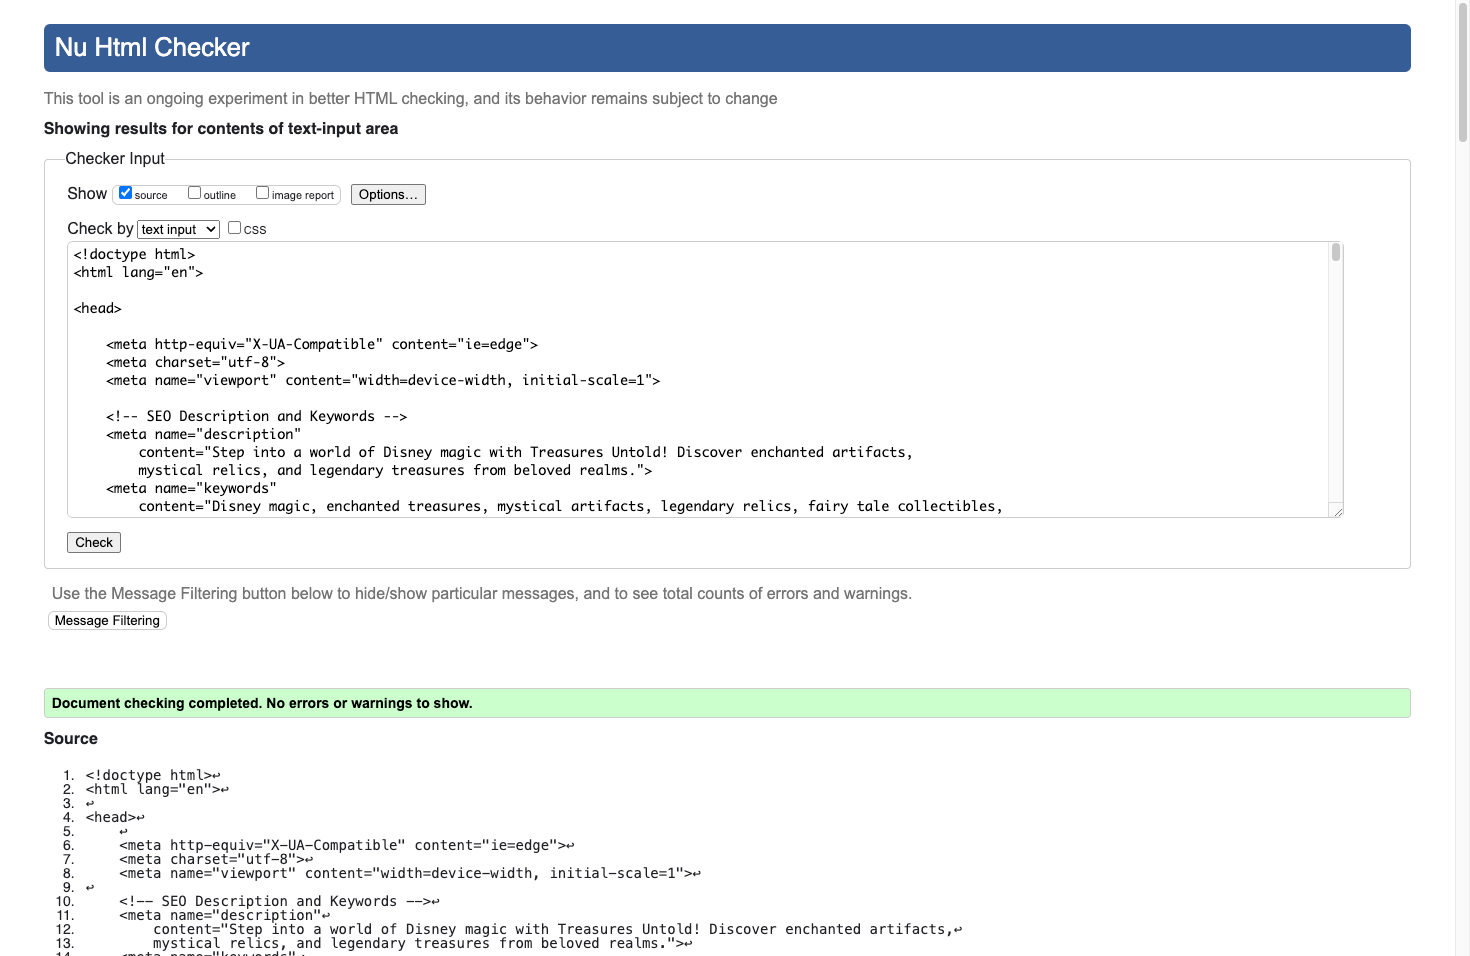
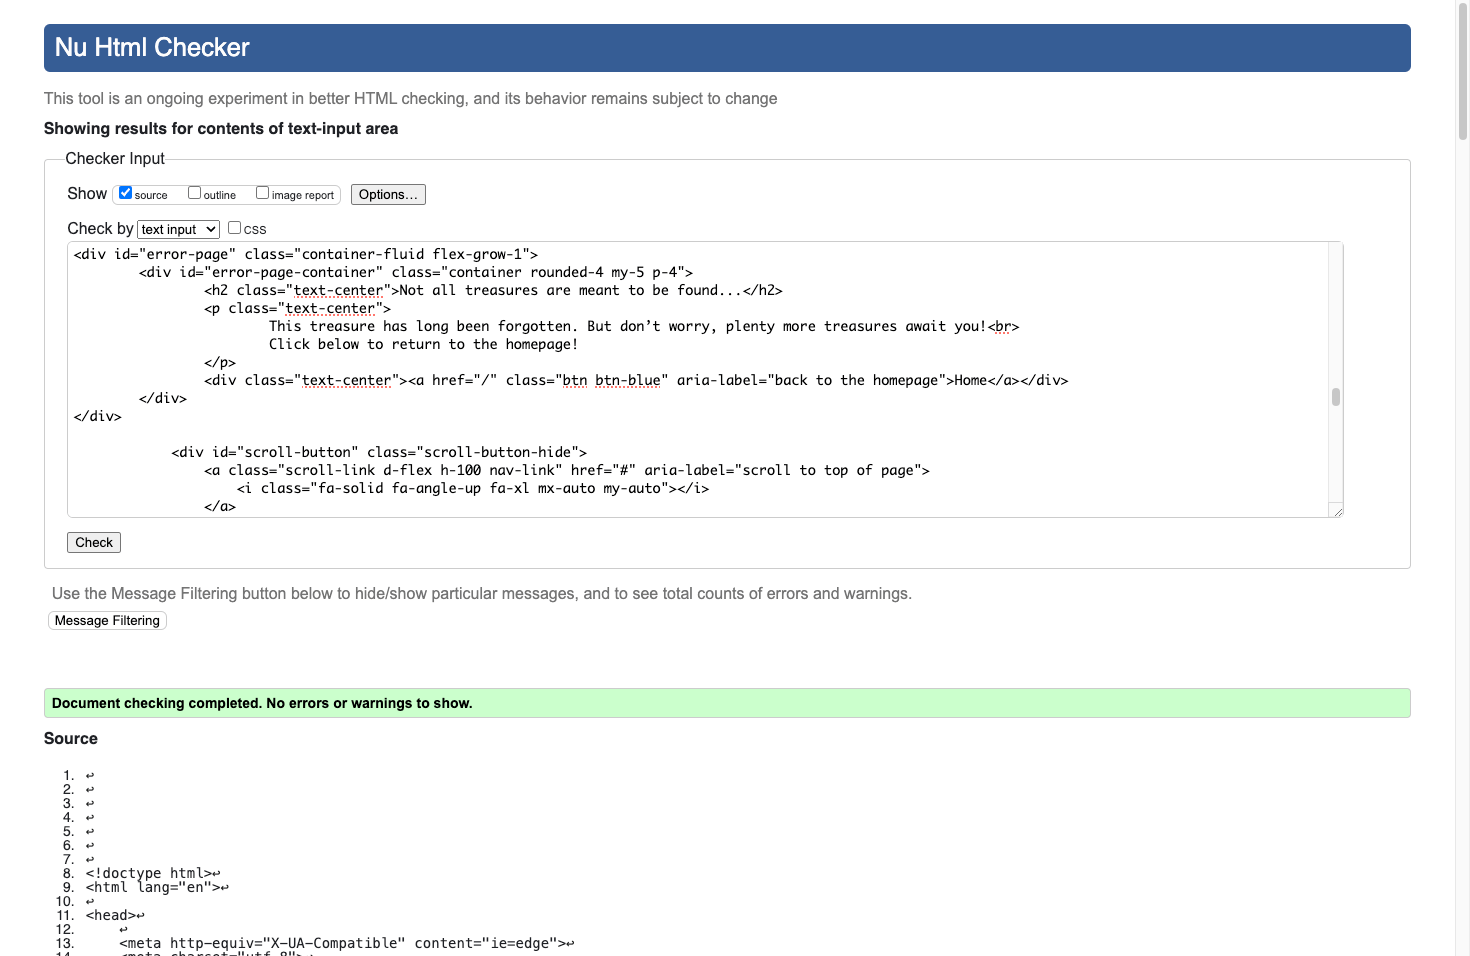
Update TESTING.md: Validate 500.html

diff --git a/products/views.py b/products/views.py
@@ -38,7 +38,6 @@ def all_products(request):
     - A rendered response displaying the filtered and sorted products based on
         the request parameters.
     """
-    raise Exception('testing deployment 500 page')
     # Set up variables for method.
     products = Product.objects.annotate(
         in_stock=Case(

diff --git a/TESTING.md b/TESTING.md
@@ -24,9 +24,9 @@ I have used the recommended [HTML W3C Validator](https://validator.w3.org) to va
 > - sort_and_filter.html
 
 | Directory | File | URL | Screenshot | Notes |
-| --- | --- | --- | --- |
+| --- | --- | --- | --- | --- |
 | templates | 404.html | n/a | ![Html validation](documentation/testing/validation/html/valid_404.png "Valid 404") | No errors or warnings found. |
-| templates | 500.html | n/a |  |  |
+| templates | 500.html | n/a | ![Html validation](documentation/testing/validation/html/valid_500.png "Valid 500") | No errors or warnings found. |
 |  |  |  |  |  |
 
 
